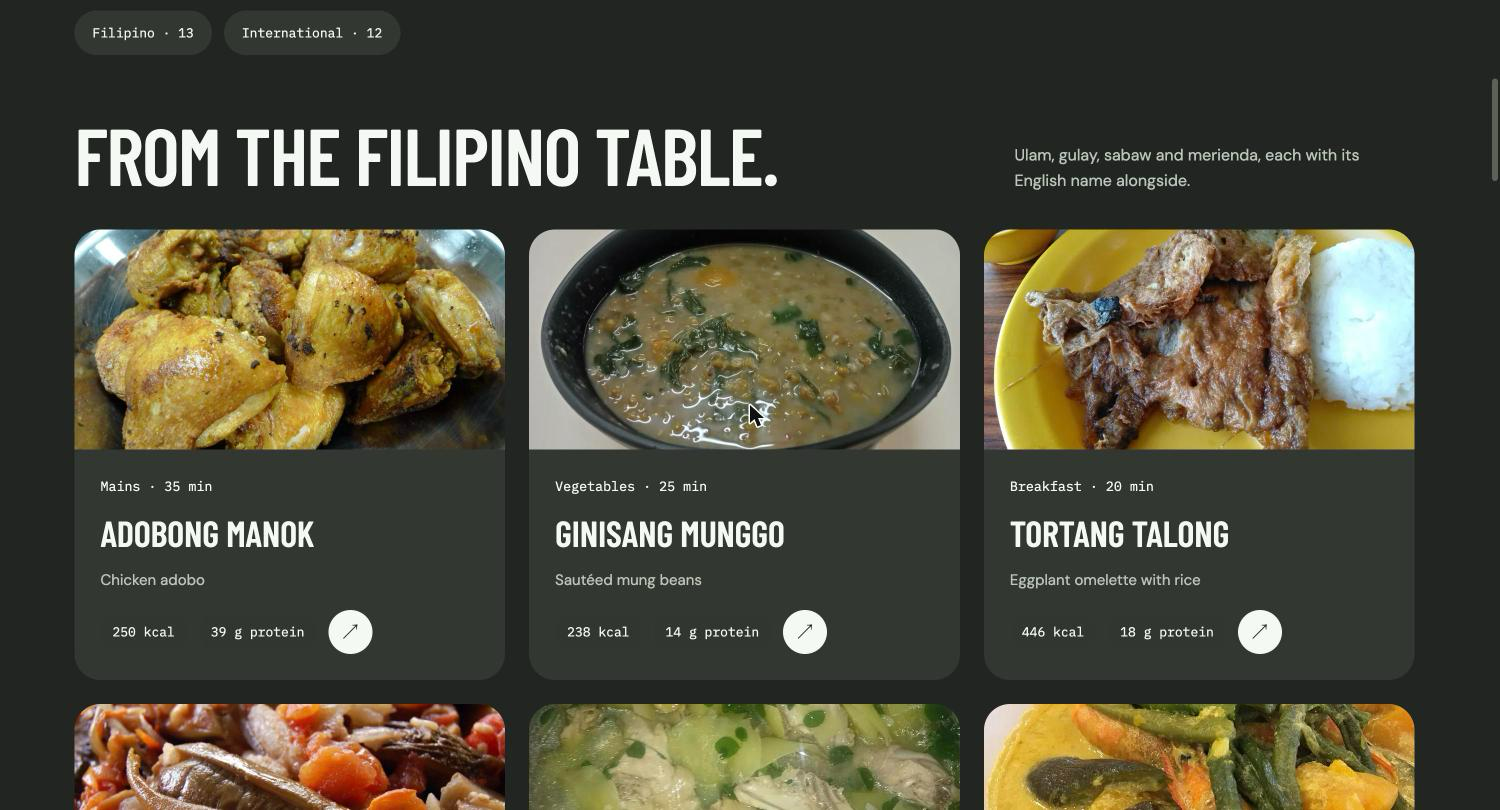
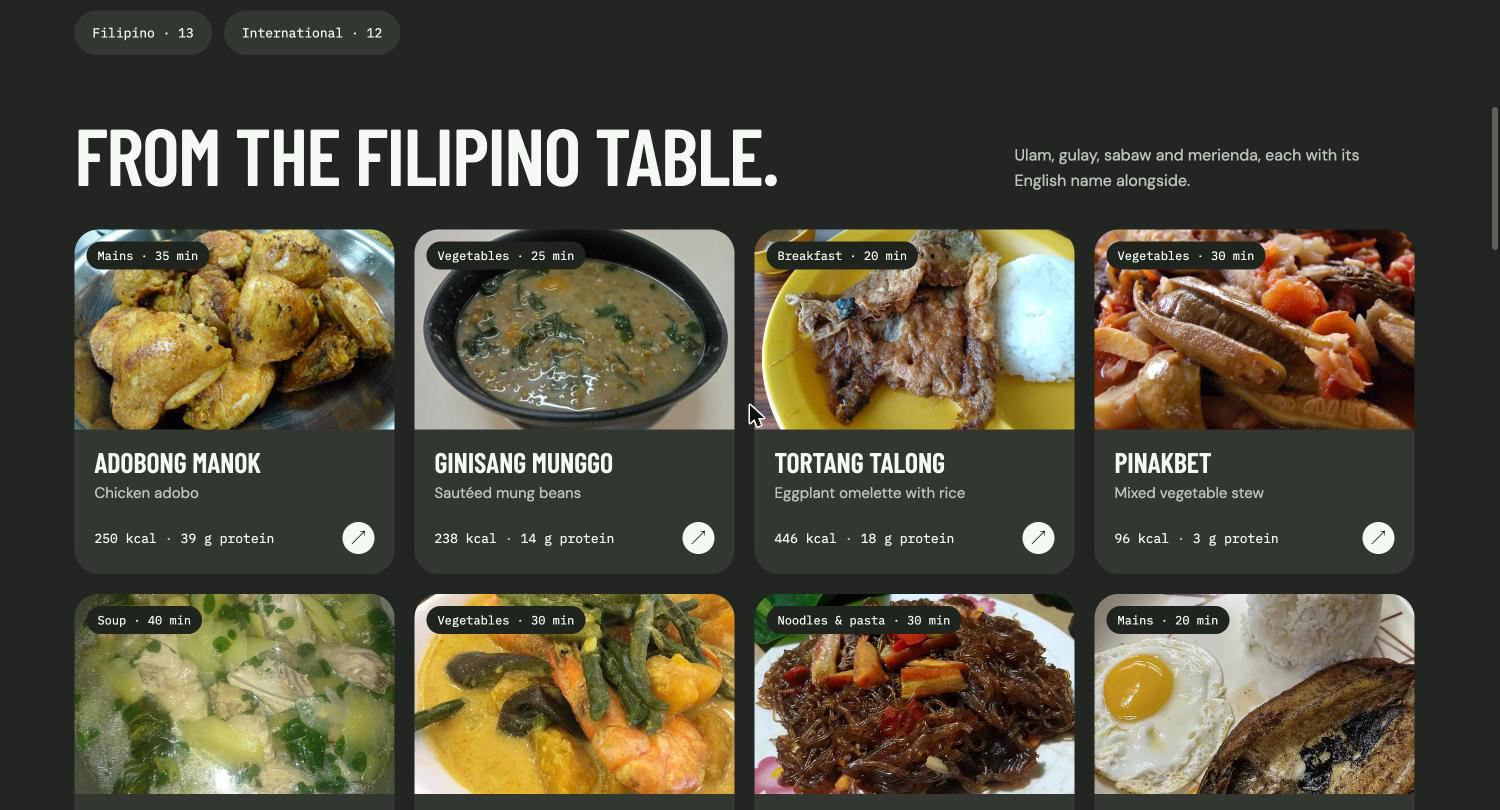
Redesign cards: one compact component across recipes, stories and foods
Card.astro replaces four hand-built card layouts. Tighter spacing, a
two-line subtitle, the category and time on the photo, and a single facts
row pinned to the bottom so a row of cards lines up. The help list
follows the same rhythm.

diff --git a/src/styles/cards.css b/src/styles/cards.css
@@ -1,0 +1,98 @@
+/* Cards (components/site/Card.astro): compact, with the facts row pinned to the bottom so a row lines up. */
+.content-card {
+  display: flex;
+  flex-direction: column;
+  overflow: hidden;
+  border-radius: 24px;
+  background: var(--raised);
+  text-decoration: none;
+  transition: transform var(--base) var(--ease-out);
+}
+.content-card:hover {
+  transform: translateY(-3px);
+}
+.card-media {
+  position: relative;
+  aspect-ratio: 16 / 10;
+  overflow: hidden;
+}
+.card-media img {
+  width: 100%;
+  height: 100%;
+  object-fit: cover;
+  transition: transform var(--slow) var(--ease-out);
+}
+.content-card:hover .card-media img {
+  transform: scale(1.04);
+}
+.card-tag {
+  position: absolute;
+  top: 12px;
+  left: 12px;
+  padding: 6px 11px;
+  border-radius: 999px;
+  background: #20231f;
+  color: #f6f8f3;
+  font: var(--text-2xs) var(--mono);
+}
+.card-body {
+  flex: 1;
+  display: flex;
+  flex-direction: column;
+  gap: 6px;
+  padding: 18px 20px 20px;
+}
+.card-meta {
+  color: var(--muted);
+  font: var(--text-2xs) var(--mono);
+}
+.content-card h3 {
+  font-size: var(--text-xl);
+  line-height: 1.02;
+}
+.card-sub {
+  color: var(--muted);
+  font-size: var(--text-sm);
+  line-height: 1.45;
+  display: -webkit-box;
+  -webkit-line-clamp: 2;
+  -webkit-box-orient: vertical;
+  overflow: hidden;
+}
+.card-foot {
+  margin-top: auto;
+  padding-top: 12px;
+  display: flex;
+  align-items: center;
+  justify-content: space-between;
+  gap: 12px;
+  font: var(--text-xs) var(--mono);
+}
+.card-facts {
+  display: flex;
+  flex-wrap: wrap;
+  gap: 2px 0;
+}
+.card-facts > span {
+  white-space: nowrap;
+}
+.card-facts > span + span::before {
+  content: '·';
+  margin: 0 8px;
+  color: var(--muted);
+}
+.card-arrow {
+  flex-shrink: 0;
+  display: grid;
+  place-items: center;
+  width: 32px;
+  height: 32px;
+  border-radius: 50%;
+  background: #f6f8f3;
+  color: #20231f;
+  font: var(--text-sm) var(--body);
+  transition: transform var(--base) var(--ease-out);
+}
+.content-card:hover .card-arrow {
+  transform: rotate(45deg);
+}

diff --git a/src/components/tools/CollectionSearch.svelte b/src/components/tools/CollectionSearch.svelte
@@ -29,24 +29,31 @@
 <style>
   .help-results {
     display: grid;
-    grid-template-columns: 1fr 1fr;
-    gap: 18px;
+    grid-template-columns: repeat(auto-fill, minmax(min(100%, 320px), 1fr));
+    gap: 16px;
   }
   .help-results a {
     position: relative;
-    padding: 28px 55px 28px 28px;
+    display: flex;
+    flex-direction: column;
+    gap: 6px;
+    padding: 20px 64px 20px 22px;
     background: var(--raised);
-    border-radius: 24px;
+    border-radius: 22px;
     text-decoration: none;
-    display: grid;
-    gap: 16px;
+    transition: transform var(--base) var(--ease-out);
+  }
+  .help-results a:hover {
+    transform: translateY(-3px);
   }
   h2 {
-    font-size: var(--text-2xl);
+    font-size: var(--text-xl);
+    line-height: 1.02;
   }
   p {
     color: var(--muted);
     font-size: var(--text-sm);
+    line-height: 1.45;
   }
   small {
     font-size: var(--text-2xs);
@@ -54,12 +61,15 @@
   }
   a > span {
     position: absolute;
-    right: 25px;
-    top: 25px;
-  }
-  @media (max-width: 600px) {
-    .help-results {
-      grid-template-columns: 1fr;
-    }
+    right: 20px;
+    top: 20px;
+    display: grid;
+    place-items: center;
+    width: 32px;
+    height: 32px;
+    border-radius: 50%;
+    background: #f6f8f3;
+    color: #20231f;
+    font-size: var(--text-sm);
   }
 </style>

diff --git a/src/styles/site.css b/src/styles/site.css
@@ -63,36 +63,8 @@
 }
 .content-grid {
   display: grid;
-  grid-template-columns: repeat(3, minmax(0, 1fr));
-  gap: 24px;
-}
-.content-card {
-  display: grid;
-  overflow: hidden;
-  border-radius: 26px;
-  background: var(--raised);
-  text-decoration: none;
-  transition: transform var(--base) var(--ease-out);
-}
-.content-card:hover {
-  transform: translateY(-4px);
-}
-.content-card img {
-  width: 100%;
-  height: 240px;
-}
-.content-card .content {
-  padding: 26px;
-  display: grid;
-  gap: 18px;
-}
-.content-card p {
-  color: var(--muted);
-  font-size: var(--text-sm);
-}
-.content-card h2,
-.content-card h3 {
-  font-size: var(--text-2xl);
+  grid-template-columns: repeat(auto-fill, minmax(min(100%, 290px), 1fr));
+  gap: 20px;
 }
 .inline-link {
   display: inline-flex;
@@ -146,9 +118,6 @@ th {
   color: #20231f;
 }
 @media (max-width: 900px) {
-  .content-grid {
-    grid-template-columns: repeat(2, minmax(0, 1fr));
-  }
   .split {
     gap: 32px;
   }
@@ -171,7 +140,6 @@ th {
     display: grid;
     gap: 20px;
   }
-  .content-grid,
   .split {
     grid-template-columns: 1fr;
   }
